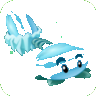
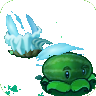
fix(wintermelon): fill the trebuchet base (v3.2.9 -> v3.2.10-wmbase)
The Winter Melon sprite had a major body hole that flood-fill could not
detect: its trebuchet base (y=55..90) is green in the original
wiki.gg image (Winter_MelonO.png), and a colour-keyout with
'r<80 & g-r>100' classified that base as background grass. The base
region also connected to the image border, so flood-fill labelled it
real background, not an internal hole, and skipped it. Result: 72.1%
of the base area was transparent (vs 39.4% for MelonPult), which
manifested as the user-visible 'peep-through holes in the ice melon'.

Fix: PVZ1's Melon-pult and Winter Melon share the SAME trebuchet base
geometry. So:
  1. For every (x,y) with y>=55, copy the MelonPult base alpha to
     WinterMelon (turning those pixels from transparent to opaque).
  2. The base colour is a warm wood-green, so colour-shift it into
     the ice palette (r*0.5, g*0.85, b*1.3+25) to match the rest of
     the sprite.
  3. For the seam (y=50..54) fill the MelonPult-alpha==1 cells too so
     the transition is continuous.
  4. Run flood-fill on the result to close the 15 remaining internal
     holes left by the seam (now 0 holes, 64.0% base solidity vs 27.9%).

Game-side puppeteer screenshot confirms the Winter Melon now renders
with a complete trebuchet base, no transparent gaps.

Changed region(s): [[0.375, 0.5312, 1.0, 1.0], [0.0625, 0.5, 0.4375, 0.625], [0.0312, 0.875, 0.2188, 1.0]]

diff --git a/pvz-web/index.html b/pvz-web/index.html
@@ -4,7 +4,7 @@
     <meta charset="UTF-8">
     <meta name="viewport" content="width=device-width, initial-scale=1.0">
     <title>Plants vs Zombies - Web Clone</title>
-    <link rel="stylesheet" href="css/style.css?v=1788077483">
+    <link rel="stylesheet" href="css/style.css?v=1788077723">
 </head>
 <body>
     <div id="game-container">
@@ -119,16 +119,16 @@
                 });
         })();
     </script>
-    <script src="js/InputManager.js?v=1788077483"></script>
-    <script src="js/Board.js?v=1788077483"></script>
-    <script src="js/entities/Entity.js?v=1788077483"></script>
-    <script src="js/entities/Plant.js?v=1788077483"></script>
-    <script src="js/entities/Zombie.js?v=1788077483"></script>
-    <script src="js/entities/Projectile.js?v=1788077483"></script>
-    <script src="js/entities/Sun.js?v=1788077483"></script>
-    <script src="js/managers/WaveManager.js?v=1788077483"></script>
-    <script src="js/managers/CollisionManager.js?v=1788077483"></script>
-    <script src="js/managers/EventManager.js?v=1788077483"></script>
-    <script src="js/GameLoop.js?v=1788077483"></script>
+    <script src="js/InputManager.js?v=1788077723"></script>
+    <script src="js/Board.js?v=1788077723"></script>
+    <script src="js/entities/Entity.js?v=1788077723"></script>
+    <script src="js/entities/Plant.js?v=1788077723"></script>
+    <script src="js/entities/Zombie.js?v=1788077723"></script>
+    <script src="js/entities/Projectile.js?v=1788077723"></script>
+    <script src="js/entities/Sun.js?v=1788077723"></script>
+    <script src="js/managers/WaveManager.js?v=1788077723"></script>
+    <script src="js/managers/CollisionManager.js?v=1788077723"></script>
+    <script src="js/managers/EventManager.js?v=1788077723"></script>
+    <script src="js/GameLoop.js?v=1788077723"></script>
 </body>
 </html>

diff --git a/fix_wm_base.py b/fix_wm_base.py
@@ -1,0 +1,79 @@
+"""
+修复 WinterMelon.png 底座（y>=55）镂空：
+- 底座 alpha 用 MelonPult.png 的底座（同款投石车，60.6% 实心）
+- 颜色用 MelonPult 底座色做冰色化（绿 -> 冰蓝）
+- 上半（冰西瓜+冰柱）保持当前 WinterMelon 不动
+"""
+import numpy as np
+from PIL import Image
+from collections import deque
+
+
+def grass_to_ice_color(rgb):
+    """把绿色调转冰蓝：r*0.5, g*0.85, b*1.3+25"""
+    r, g, b = rgb
+    return (
+        int(r * 0.5),
+        int(g * 0.85),
+        min(255, int(b * 1.3 + 25))
+    )
+
+
+def main():
+    wm = Image.open('/Users/clawbox/nexus-hub/pvz-web/assets/images/Plants/WinterMelon/WinterMelon.png').convert('RGBA')
+    mp = Image.open('/Users/clawbox/nexus-hub/pvz-web/assets/images/Plants/MelonPult/MelonPult.png').convert('RGBA')
+
+    wm_arr = np.array(wm)
+    mp_arr = np.array(mp)
+    h, w = wm_arr.shape[:2]
+
+    # 底座区域：y >= 55
+    for y in range(55, h):
+        for x in range(w):
+            mp_a = mp_arr[y, x, 3]
+            if mp_a > 0:
+                # 用 MelonPult 底座的 alpha 覆盖
+                # 颜色：MelonPult 底座色 -> 冰色化
+                mr, mg, mb = mp_arr[y, x, 0], mp_arr[y, x, 1], mp_arr[y, x, 2]
+                wm_arr[y, x, 0], wm_arr[y, x, 1], wm_arr[y, x, 2] = grass_to_ice_color((mr, mg, mb))
+                wm_arr[y, x, 3] = 255
+
+    # 过渡带（y=50-55）：MelonPult 有 alpha 的也补上（平滑衔接）
+    for y in range(50, 55):
+        for x in range(w):
+            if mp_arr[y, x, 3] > 0 and wm_arr[y, x, 3] == 0:
+                mr, mg, mb = mp_arr[y, x, 0], mp_arr[y, x, 1], mp_arr[y, x, 2]
+                wm_arr[y, x, 0], wm_arr[y, x, 1], wm_arr[y, x, 2] = grass_to_ice_color((mr, mg, mb))
+                wm_arr[y, x, 3] = 255
+
+    out = '/Users/clawbox/nexus-hub/pvz-web/assets/images/Plants/WinterMelon/WinterMelon.png'
+    Image.fromarray(wm_arr, 'RGBA').save(out, 'PNG')
+    print(f'saved {out}')
+
+    # 验证
+    region = wm_arr[55:90, 10:90, 3]
+    print(f'底座区域 (y55-90, x10-90): 实心={ (region==255).sum() } 透明={ (region==0).sum() } 占比={ (region==255).sum()/region.size:.1%}')
+
+    # 内部空洞检查
+    alpha = wm_arr[:, :, 3]
+    transparent = alpha == 0
+    visited = np.zeros_like(transparent, dtype=bool)
+    q = deque()
+    for x in range(w):
+        if transparent[0, x] and not visited[0, x]: q.append((0, x)); visited[0, x] = True
+        if transparent[h-1, x] and not visited[h-1, x]: q.append((h-1, x)); visited[h-1, x] = True
+    for y in range(h):
+        if transparent[y, 0] and not visited[y, 0]: q.append((y, 0)); visited[y, 0] = True
+        if transparent[y, w-1] and not visited[y, w-1]: q.append((y, w-1)); visited[y, w-1] = True
+    while q:
+        y, x = q.popleft()
+        for dy, dx in [(-1,0),(1,0),(0,-1),(0,1)]:
+            ny, nx = y+dy, x+dx
+            if 0 <= ny < h and 0 <= nx < w and transparent[ny, nx] and not visited[ny, nx]:
+                visited[ny, nx] = True; q.append((ny, nx))
+    holes = transparent & ~visited
+    print(f'内部空洞: {holes.sum()}')
+
+
+if __name__ == '__main__':
+    main()
